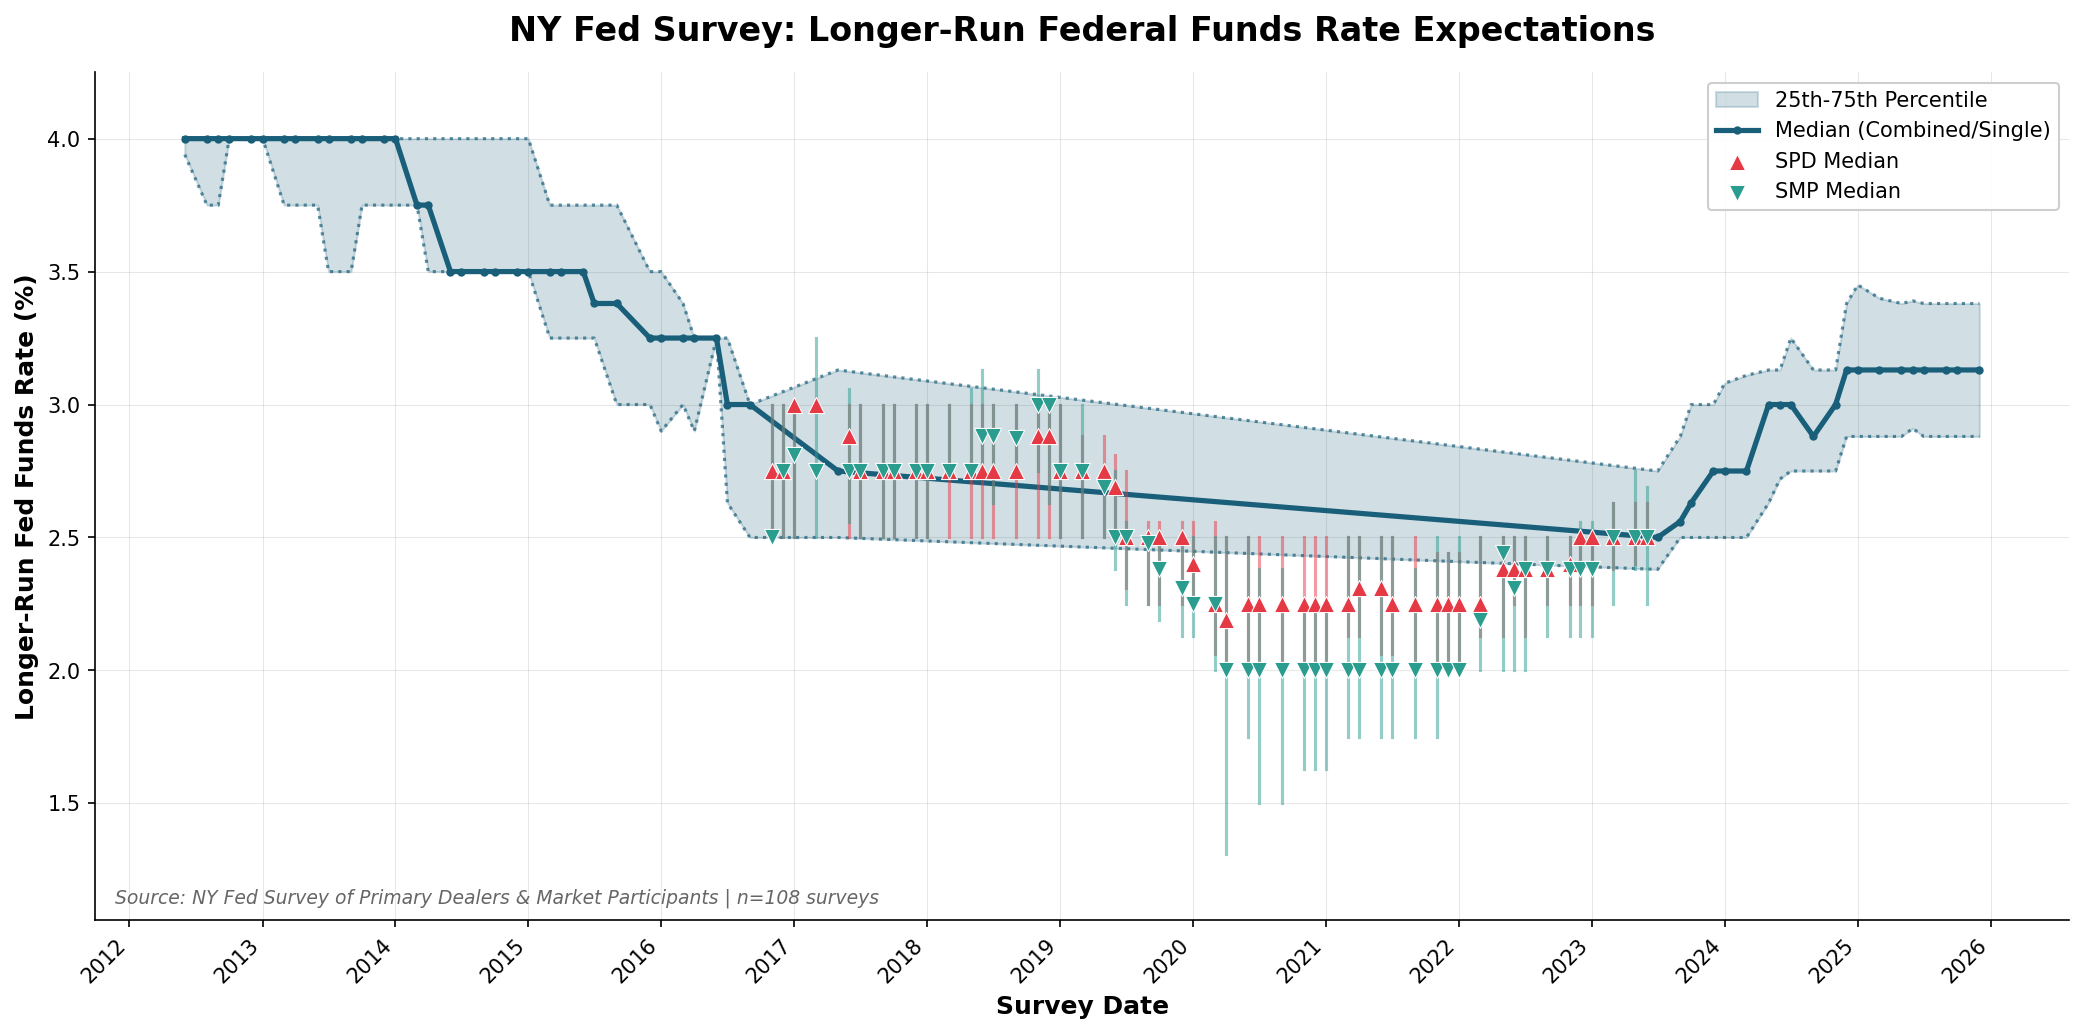
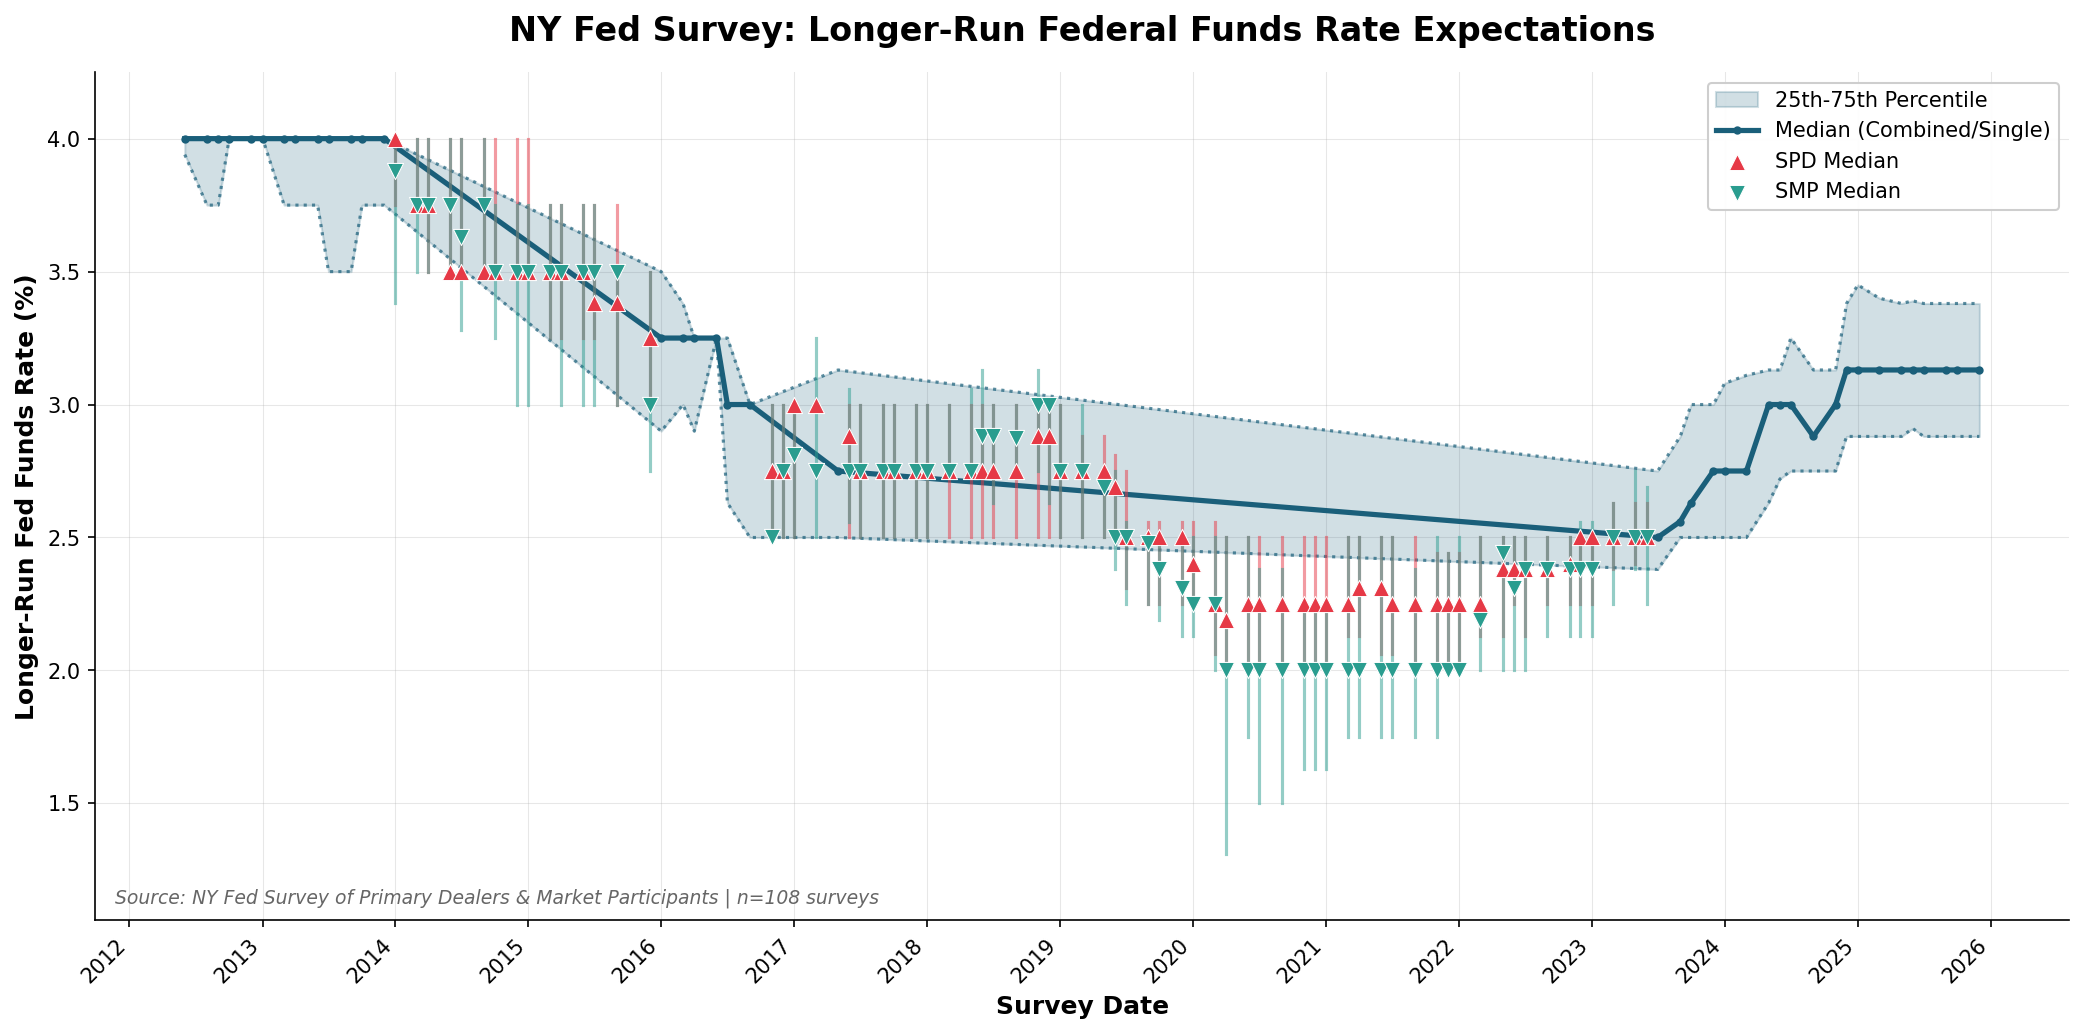
Fix SMP detection for 2014-2015 mp_ prefix files

Changed region(s): [[0.1871, 0.1238, 0.3431, 0.4333]]

diff --git a/scripts/03_extract_pdf_llm.py b/scripts/03_extract_pdf_llm.py
@@ -55,17 +55,28 @@ def get_client() -> Optional[OpenAI]:
 def determine_panel(filename: str, survey_date: datetime = None) -> str:
     """Determine panel type from filename and date.
     
-    Note: SMP (Survey of Market Participants) was introduced in November 2016.
-    Before that, only SPD (Survey of Primary Dealers) existed.
+    Note: SMP (Survey of Market Participants) started in January 2014.
+    File naming conventions:
+    - 2014-2015: "mp_" prefix for Market Participants
+    - 2016+: "smp" or "SMP" in filename
     """
     fn = filename.lower()
+    
+    # Check for SPD markers
     if 'spd' in fn or 'dealer' in fn:
         return PANEL_SPD
-    elif 'smp' in fn or 'participant' in fn:
+    
+    # Check for SMP markers (includes "mp_" prefix used in 2014-2015)
+    if 'smp' in fn or 'participant' in fn or fn.startswith('mp-') or '-mp_' in fn or fn.startswith('mp_'):
         return PANEL_SMP
     
-    # For dates before November 2016, only SPD existed
-    # So if no explicit panel marker, it's SPD
+    # For dates before January 2014, only SPD existed
+    # If no explicit panel marker and before SMP launch, it's SPD
+    if survey_date and survey_date < datetime(2014, 1, 1):
+        return PANEL_SPD
+    
+    # For dates between Jan 2014 and Nov 2016 without markers, assume SPD
+    # (the primary dealer survey, as SMP files have mp_ prefix)
     if survey_date and survey_date < datetime(2016, 11, 1):
         return PANEL_SPD
     
